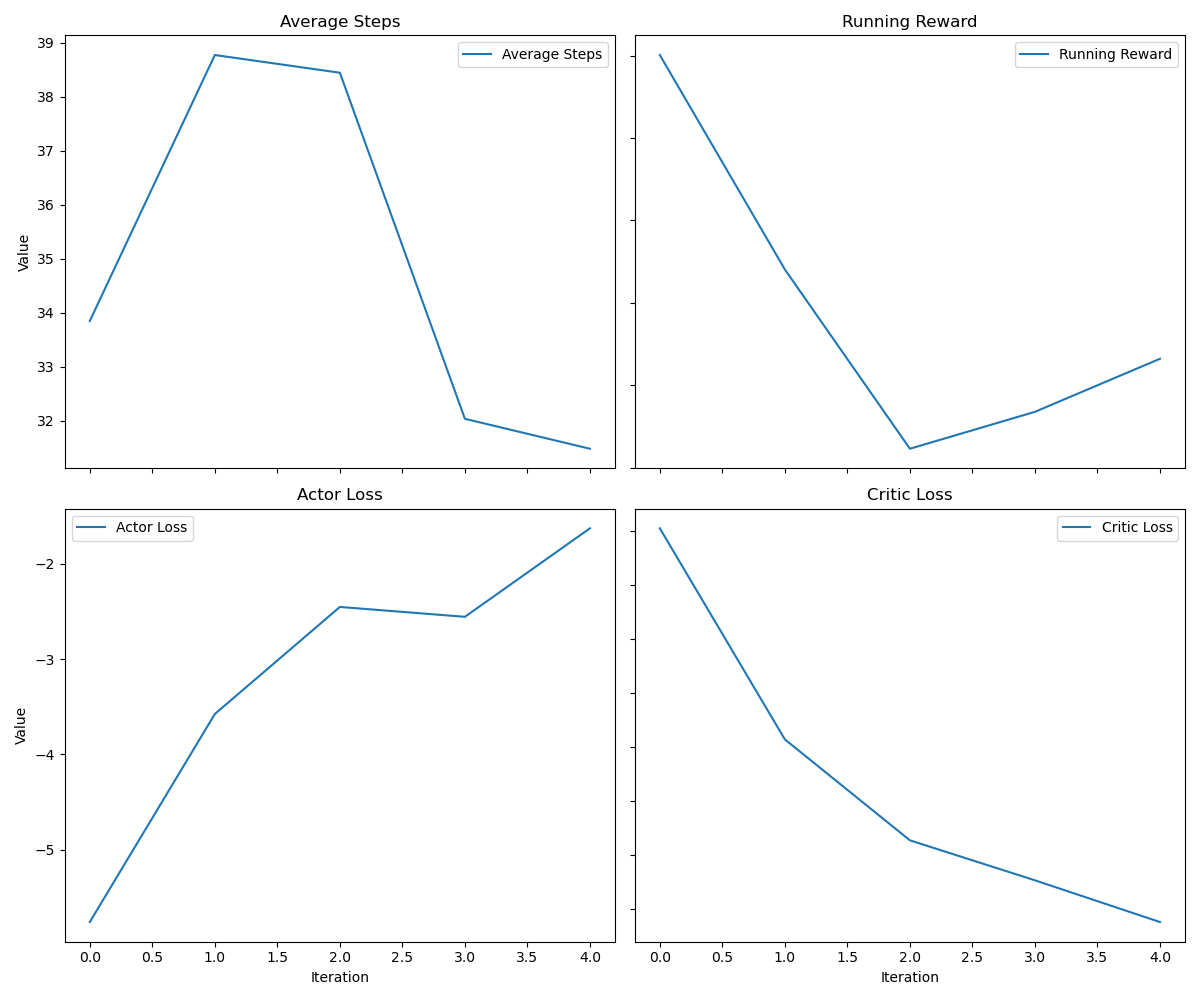
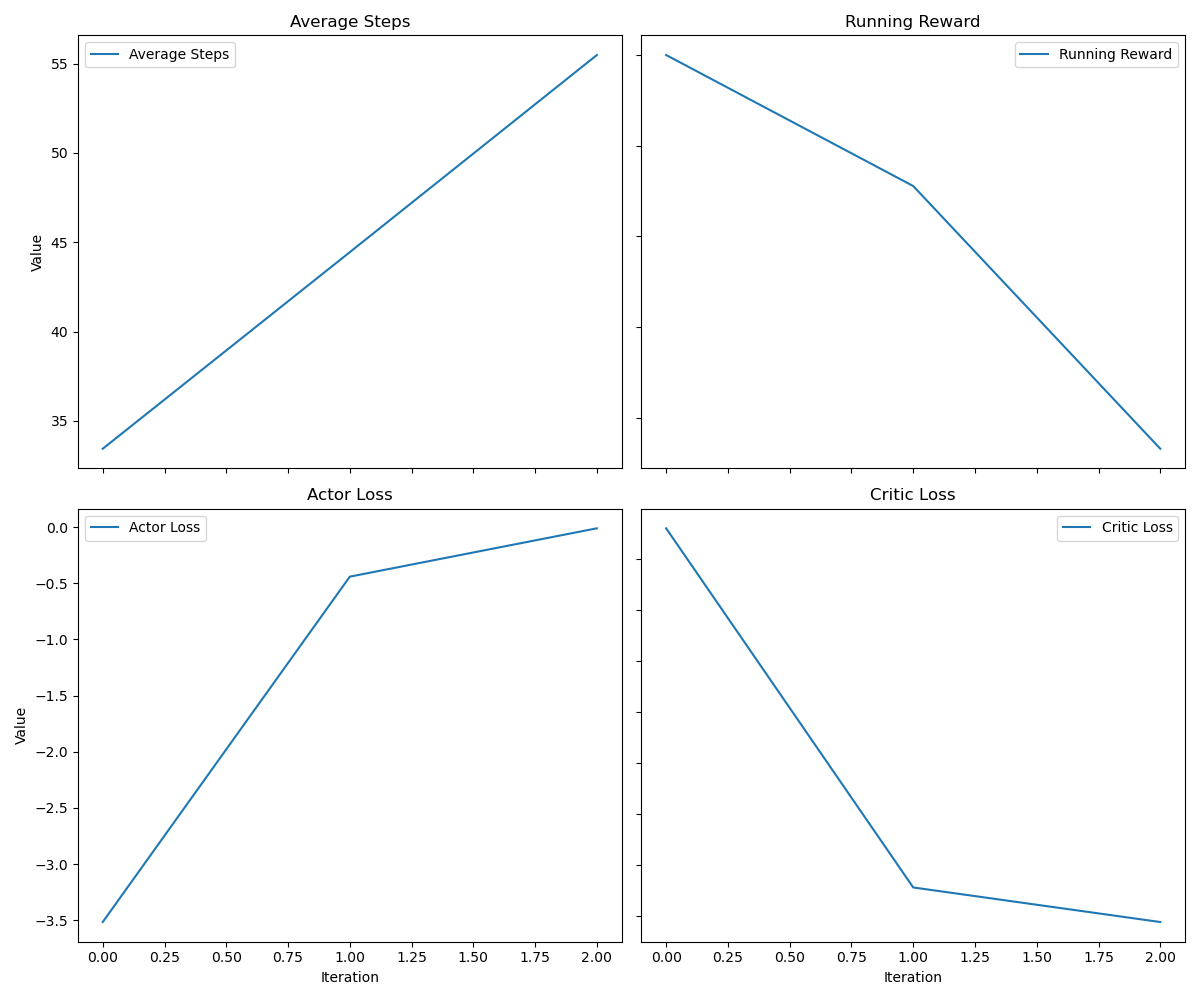
can use stacked LSTM

diff --git a/train.py b/train.py
@@ -1,6 +1,7 @@
 import torch
 import matplotlib.pyplot as plt
 from tensormanager import TensorManager
+from model import initialize_hidden_states
 
 
 class Train:
@@ -91,10 +92,10 @@ class Train:
                 tensor_manager.hidden_states_critic_tensor,
                 tensor_manager.time_step_tensor,
             ):
-                h_a = hidden_state_actor[:, 0, :].unsqueeze(0).contiguous()
-                c_a = hidden_state_actor[:, 1, :].unsqueeze(0).contiguous()
-                h_c = hidden_state_critic[:, 0, :].unsqueeze(0).contiguous()
-                c_c = hidden_state_critic[:, 1, :].unsqueeze(0).contiguous()
+                h_a = hidden_state_actor[:, :, 0, :].permute(1, 0, 2).contiguous()
+                c_a = hidden_state_actor[:, :, 1, :].permute(1, 0, 2).contiguous()
+                h_c = hidden_state_critic[:, :, 0, :].permute(1, 0, 2).contiguous()
+                c_c = hidden_state_critic[:, :, 1, :].permute(1, 0, 2).contiguous()
                 hidden_state_actor = (h_a, c_a)
                 hidden_state_critic = (h_c, c_c)
 
@@ -125,20 +126,31 @@ class Train:
             tensor_manager = TensorManager(
                 self.env_num,
                 self.horizon,
+                self.agent.num_layers,
                 states.shape[1:],  # [channel, height, width]
                 self.env.action_space,  # action space
                 self.agent.device,
                 encoded_space=self.env.state_space,  # encoded state space
                 hidden_dim=self.agent.hidden_dim,
             )
-            hidden_states_actor = None
-            hidden_states_critic = None
+            prev_hidden_states_actor = initialize_hidden_states(
+                None,
+                self.env_num,
+                self.agent.actor.lstm,
+                self.agent.device,
+            )
+            prev_hidden_states_critic = initialize_hidden_states(
+                None,
+                self.env_num,
+                self.agent.critic.lstm,
+                self.agent.device,
+            )
 
             # 1 episode (data collection)
             for t in range(self.horizon):
                 # Actor
                 dists, hidden_states_actor = self.agent.choose_dists(
-                    states, hidden_states_actor, use_grad=False
+                    states, prev_hidden_states_actor, use_grad=False
                 )
                 actions = self.agent.choose_actions(dists)
                 scaled_actions = self.agent.scale_actions(actions)
@@ -147,7 +159,7 @@ class Train:
                 # Critic
                 value, hidden_states_critic = self.agent.get_value(
                     states,
-                    hidden_states_critic,
+                    prev_hidden_states_critic,
                     use_grad=False,
                 )
 
@@ -161,10 +173,13 @@ class Train:
                     value,
                     log_prob,
                     dones,
-                    hidden_states_actor,
-                    hidden_states_critic,
+                    prev_hidden_states_actor,
+                    prev_hidden_states_critic,
                     t,
                 )
+
+                prev_hidden_states_actor = hidden_states_actor
+                prev_hidden_states_critic = hidden_states_critic
 
                 for i in range(self.env_num):
                     if dones[i] and done_times[i] == -1:
@@ -177,14 +192,16 @@ class Train:
                 # if the epsisode is not done
                 if done_times[i] == -1:
                     h_c = (
-                        tensor_manager.hidden_states_critic_tensor[i, -1, 0, :]
+                        tensor_manager.hidden_states_critic_tensor[i, -1, :, 0, :]
                         .unsqueeze(0)
-                        .unsqueeze(0)
+                        .permute(1, 0, 2)
+                        .contiguous()
                     )
                     c_c = (
-                        tensor_manager.hidden_states_critic_tensor[i, -1, 1, :]
+                        tensor_manager.hidden_states_critic_tensor[i, -1, :, 1, :]
                         .unsqueeze(0)
-                        .unsqueeze(0)
+                        .permute(1, 0, 2)
+                        .contiguous()
                     )
                     next_value, _ = self.agent.get_value(
                         tensor_manager.states_tensor[i, -1].unsqueeze(0),

diff --git a/model.py b/model.py
@@ -5,16 +5,19 @@ from torch.distributions import normal
 
 
 class Actor(nn.Module):
-    def __init__(self, n_states, n_actions, hidden_dim=64):
+    def __init__(self, n_states, n_actions, hidden_dim=256, num_layers=1):
         super(Actor, self).__init__()
         self.device = torch.device("cuda:0" if torch.cuda.is_available() else "cpu")
         self.n_states = n_states
         self.n_actions = n_actions
+        self.num_layers = num_layers
 
         self.fc1 = nn.Linear(in_features=self.n_states, out_features=hidden_dim)
         self.fc2 = nn.Linear(in_features=hidden_dim, out_features=hidden_dim)
 
-        self.lstm = nn.LSTM(input_size=hidden_dim, hidden_size=hidden_dim, num_layers=1)
+        self.lstm = nn.LSTM(
+            input_size=hidden_dim, hidden_size=hidden_dim, num_layers=self.num_layers
+        )
         self.mu = nn.Linear(in_features=hidden_dim, out_features=n_actions)
         self.log_std = nn.Parameter(torch.zeros(1, self.n_actions))
 
@@ -33,25 +36,27 @@ class Actor(nn.Module):
         x = torch.tanh(self.fc1(x))
         x = torch.tanh(self.fc2(x))
         x = x.unsqueeze(0)
-        output, hidden_state = self.lstm(x, hidden_states)
-
+        output, hidden_states = self.lstm(x, hidden_states)
         mu = self.mu(output.squeeze(0))
         std = torch.exp(self.log_std + 1e-5)
 
         dist = normal.Normal(mu, std)
 
-        return dist, hidden_state
+        return dist, hidden_states
 
 
 class Critic(nn.Module):
-    def __init__(self, n_states, hidden_dim=256):
+    def __init__(self, n_states, hidden_dim=256, num_layers=1):
         super(Critic, self).__init__()
         self.device = torch.device("cuda:0" if torch.cuda.is_available() else "cpu")
         self.n_states = n_states
+        self.num_layers = num_layers
 
         self.fc1 = nn.Linear(in_features=self.n_states, out_features=hidden_dim)
         self.fc2 = nn.Linear(in_features=hidden_dim, out_features=hidden_dim)
-        self.lstm = nn.LSTM(input_size=hidden_dim, hidden_size=hidden_dim, num_layers=1)
+        self.lstm = nn.LSTM(
+            input_size=hidden_dim, hidden_size=hidden_dim, num_layers=self.num_layers
+        )
         self.value_1 = nn.Linear(in_features=hidden_dim, out_features=hidden_dim)
         self.value_2 = nn.Linear(in_features=hidden_dim, out_features=hidden_dim)
         self.value_3 = nn.Linear(in_features=hidden_dim, out_features=1)
@@ -84,12 +89,12 @@ class Critic(nn.Module):
 
 def initialize_hidden_states(hidden_states, batch_size, lstm, device):
     if hidden_states is None:
-        init_state = torch.zeros(
-            2,
-            lstm.num_layers,
-            batch_size,
-            lstm.hidden_size,
-            device=device,
+        # 각 hidden_state와 cell_state의 차원을 (batch_size, 1, lstm.hidden_size)로 설정
+        hidden_state = torch.zeros(
+            lstm.num_layers, batch_size, lstm.hidden_size, device=device
         )
-        hidden_states = (init_state[0], init_state[1])
+        cell_state = torch.zeros(
+            lstm.num_layers, batch_size, lstm.hidden_size, device=device
+        )
+        hidden_states = (hidden_state, cell_state)
     return hidden_states

diff --git a/tensormanager.py b/tensormanager.py
@@ -6,6 +6,7 @@ class TensorManager:
         self,
         env_num,
         horizon,
+        num_layers,
         states_shape,
         action_dim,
         device,
@@ -14,6 +15,7 @@ class TensorManager:
     ):
         self.env_num = env_num
         self.horizon = horizon
+        self.num_layers = num_layers
         self.states_shape = states_shape
         self.action_dim = action_dim
         self.hidden_dim = hidden_dim
@@ -30,10 +32,10 @@ class TensorManager:
         self.log_probs_tensor = self.init_tensor([self.env_num, self.horizon], False)
         self.dones_tensor = self.init_tensor([self.env_num, self.horizon + 1], False)
         self.hidden_states_actor_tensor = self.init_tensor(
-            [self.env_num, self.horizon, 2, hidden_dim], False
+            [self.env_num, self.horizon, self.num_layers, 2, hidden_dim], False
         )
         self.hidden_states_critic_tensor = self.init_tensor(
-            [self.env_num, self.horizon, 2, hidden_dim], False
+            [self.env_num, self.horizon, self.num_layers, 2, hidden_dim], False
         )
         self.advantages_tensor = self.init_tensor([self.env_num, self.horizon], False)
         self.time_step_tensor = torch.arange(
@@ -66,10 +68,18 @@ class TensorManager:
         self.values_tensor[:, t] = values.squeeze()
         self.log_probs_tensor[:, t] = log_probs
         self.dones_tensor[:, t] = dones
-        self.hidden_states_actor_tensor[:, t, 0, :] = hidden_states_actor[0].squeeze()
-        self.hidden_states_actor_tensor[:, t, 1, :] = hidden_states_actor[1].squeeze()
-        self.hidden_states_critic_tensor[:, t, 0, :] = hidden_states_critic[0].squeeze()
-        self.hidden_states_critic_tensor[:, t, 1, :] = hidden_states_critic[1].squeeze()
+        self.hidden_states_actor_tensor[:, t, :, 0, :] = (
+            hidden_states_actor[0].squeeze().permute(1, 0, 2).contiguous()
+        )
+        self.hidden_states_actor_tensor[:, t, :, 1, :] = (
+            hidden_states_actor[1].squeeze().permute(1, 0, 2).contiguous()
+        )
+        self.hidden_states_critic_tensor[:, t, :, 0, :] = (
+            hidden_states_critic[0].squeeze().permute(1, 0, 2).contiguous()
+        )
+        self.hidden_states_critic_tensor[:, t, :, 1, :] = (
+            hidden_states_critic[1].squeeze().permute(1, 0, 2).contiguous()
+        )
 
     def reset_done_flags(self, done_times):
         for i, done_time in enumerate(done_times):

diff --git a/agent.py b/agent.py
@@ -7,24 +7,30 @@ from torch.optim.lr_scheduler import LambdaLR
 
 
 class Agent:
-    def __init__(self, env_name, n_iter, n_states, n_actions, hidden_dim, lr):
+    def __init__(
+        self, env_name, n_iter, n_states, n_actions, hidden_dim, num_layers, lr
+    ):
         self.env_name = env_name
         self.n_iter = n_iter
         self.n_states = n_states
         self.n_actions = n_actions
         self.hidden_dim = hidden_dim
         self.device = torch.device("cuda:0" if torch.cuda.is_available() else "cpu")
+        self.num_layers = num_layers
         self.lr = lr
 
         self.actor = Actor(
-            n_states=self.n_states, n_actions=self.n_actions, hidden_dim=hidden_dim
+            n_states=self.n_states,
+            n_actions=self.n_actions,
+            hidden_dim=hidden_dim,
+            num_layers=num_layers,
         ).to(self.device)
-        self.critic = Critic(n_states=self.n_states, hidden_dim=hidden_dim).to(
-            self.device
-        )
+        self.critic = Critic(
+            n_states=self.n_states, hidden_dim=hidden_dim, num_layers=num_layers
+        ).to(self.device)
 
         self.actor_optimizer = Adam(self.actor.parameters(), lr=self.lr, eps=1e-5)
-        self.critic_optimizer = Adam(self.critic.parameters(), lr=self.lr * 5, eps=1e-5)
+        self.critic_optimizer = Adam(self.critic.parameters(), lr=self.lr, eps=1e-5)
 
         self.critic_loss = torch.nn.MSELoss()
 
@@ -94,10 +100,11 @@ class EncodedAgent(Agent):
         n_states,
         n_actions,
         hidden_dim,
+        num_layers,
         lr,
     ):
         super(EncodedAgent, self).__init__(
-            env_name, n_iter, n_states, n_actions, hidden_dim, lr
+            env_name, n_iter, n_states, n_actions, hidden_dim, num_layers, lr
         )
         self.encoder = encoder
         self.encoder.eval()  # Encoder를 평가 모드로 설정

diff --git a/main.py b/main.py
@@ -19,11 +19,12 @@ device = torch.device("cuda:0" if torch.cuda.is_available() else "cpu")
 latent_size = 512
 env_batch = 128
 hidden_dim = 1024
+lstm_num_layers = 4
 
 # Reward weights
 alpha = 1.0
 beta = 20.0
-gamma = 0.0
+gamma = 0.5
 
 if __name__ == "__main__":
     set_random_seed(2024, deterministic=True)
@@ -48,6 +49,7 @@ if __name__ == "__main__":
         n_states=env.state_space,
         n_actions=env.action_space,
         hidden_dim=hidden_dim,
+        num_layers=lstm_num_layers,
         lr=lr,
     )
 
